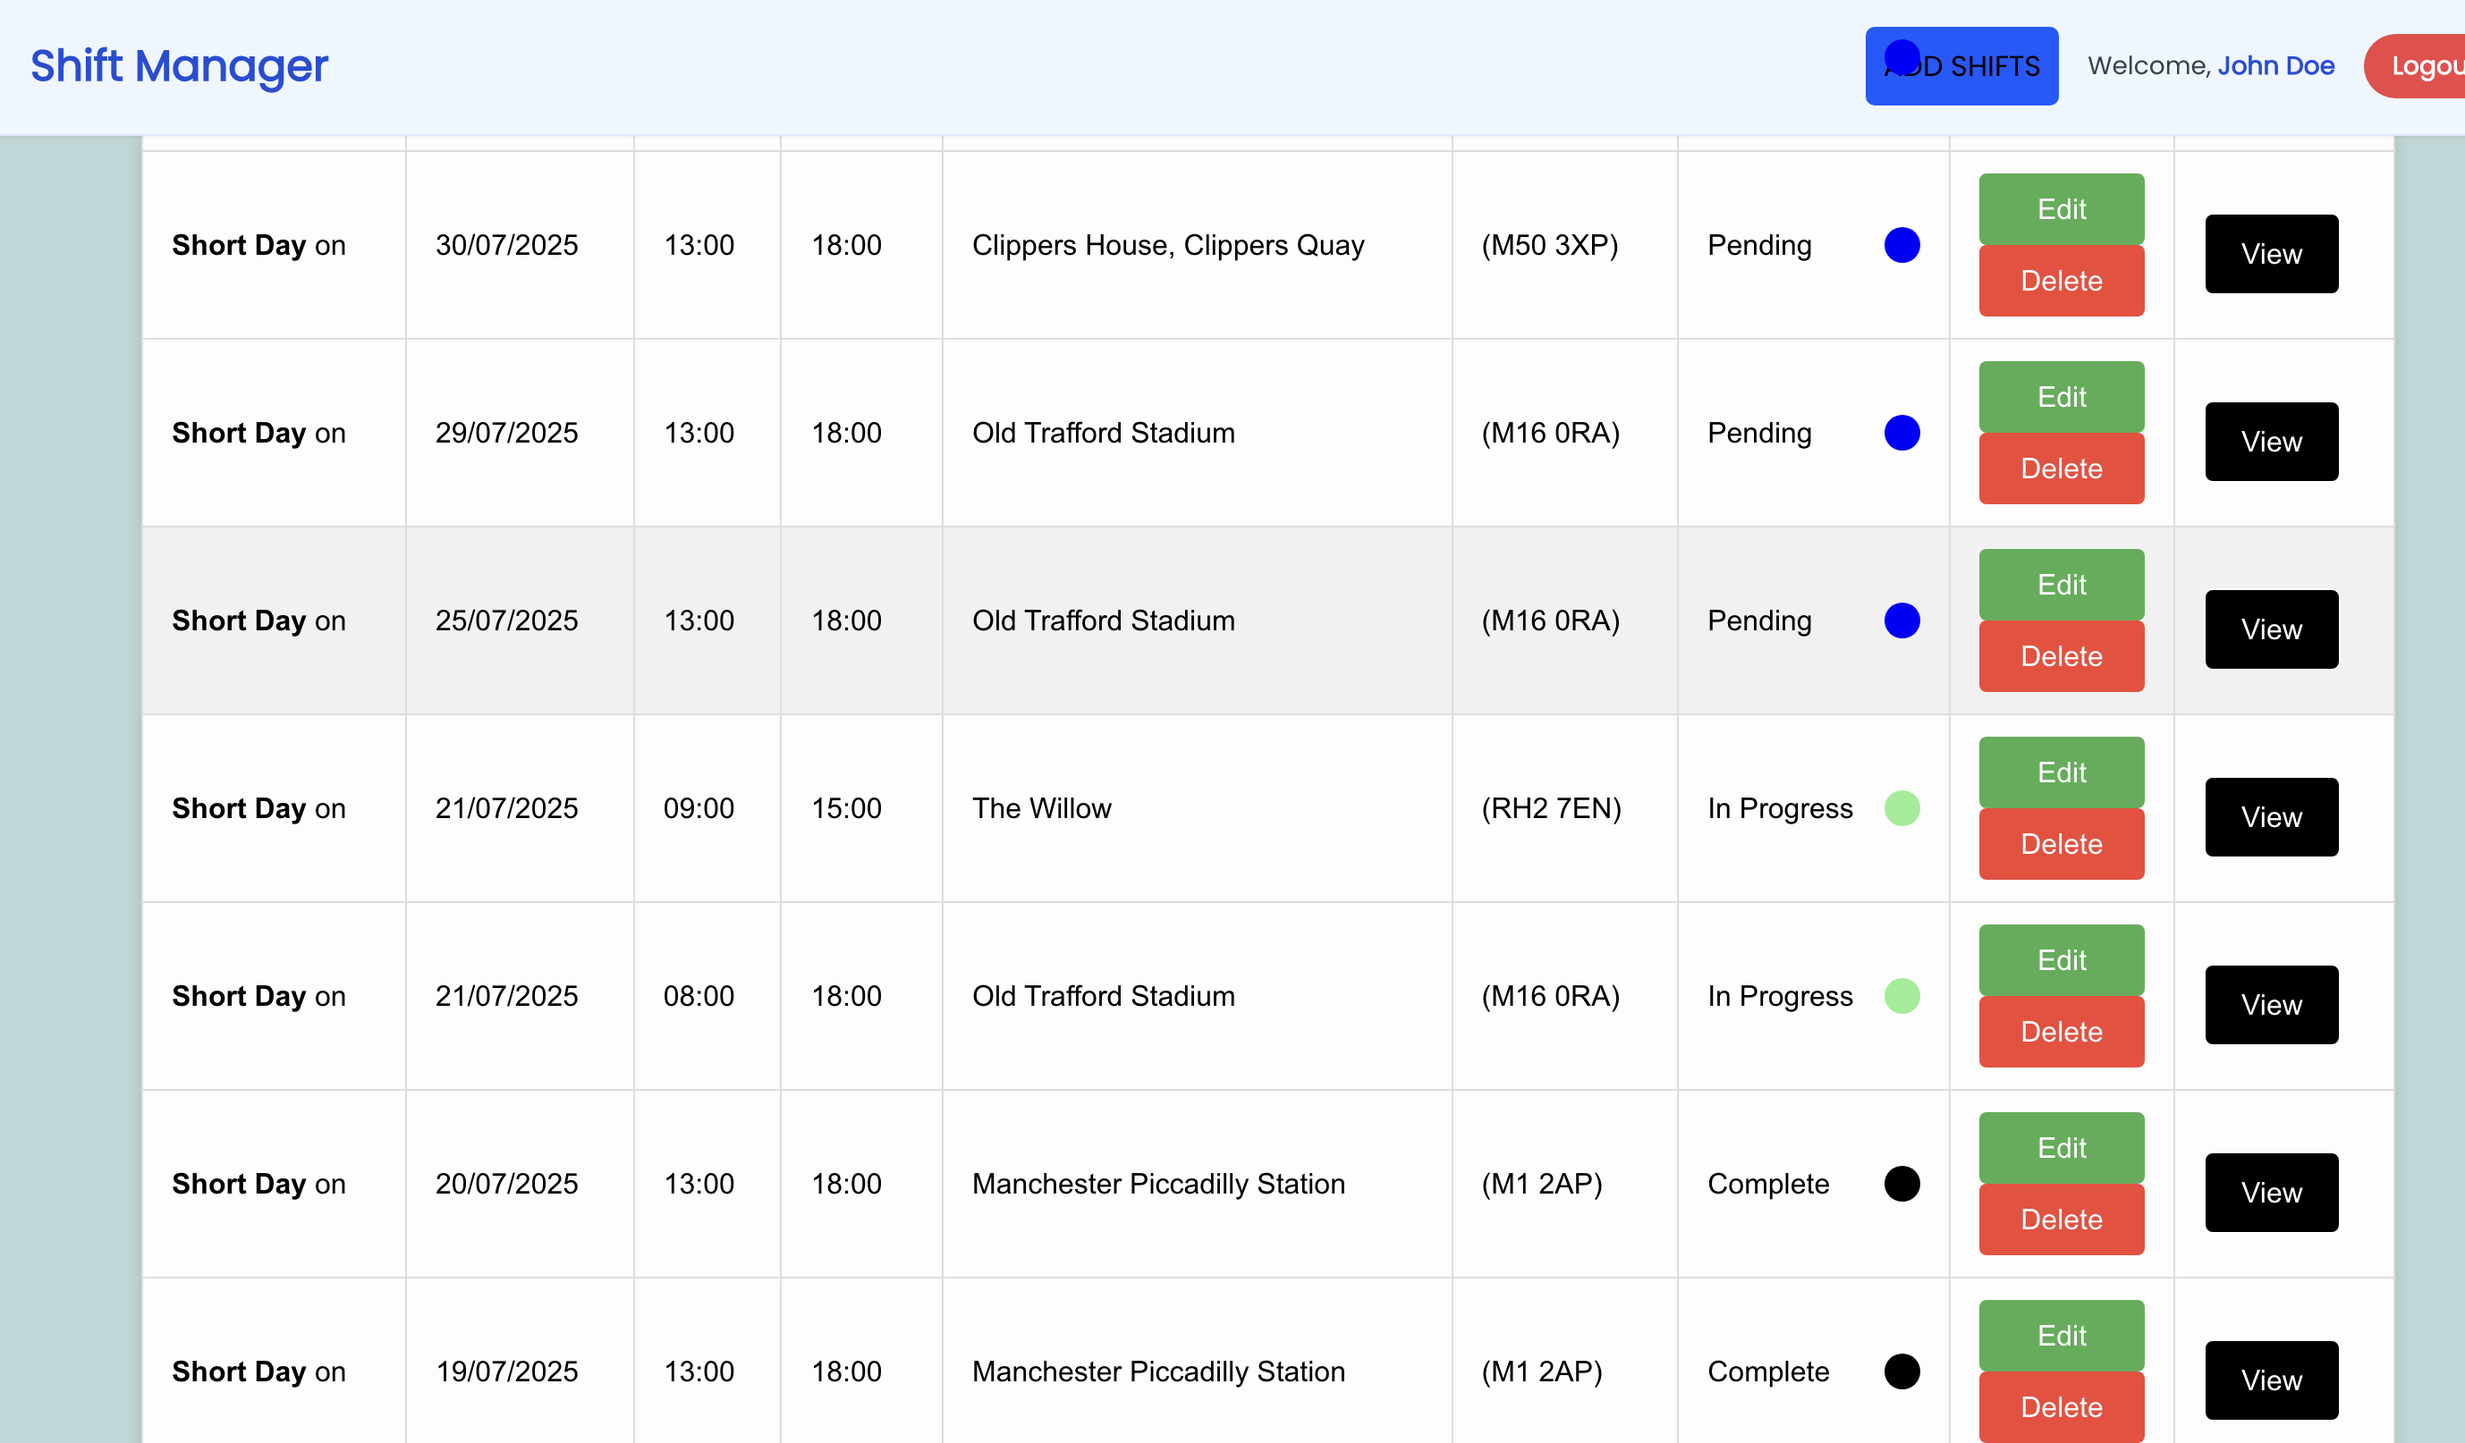
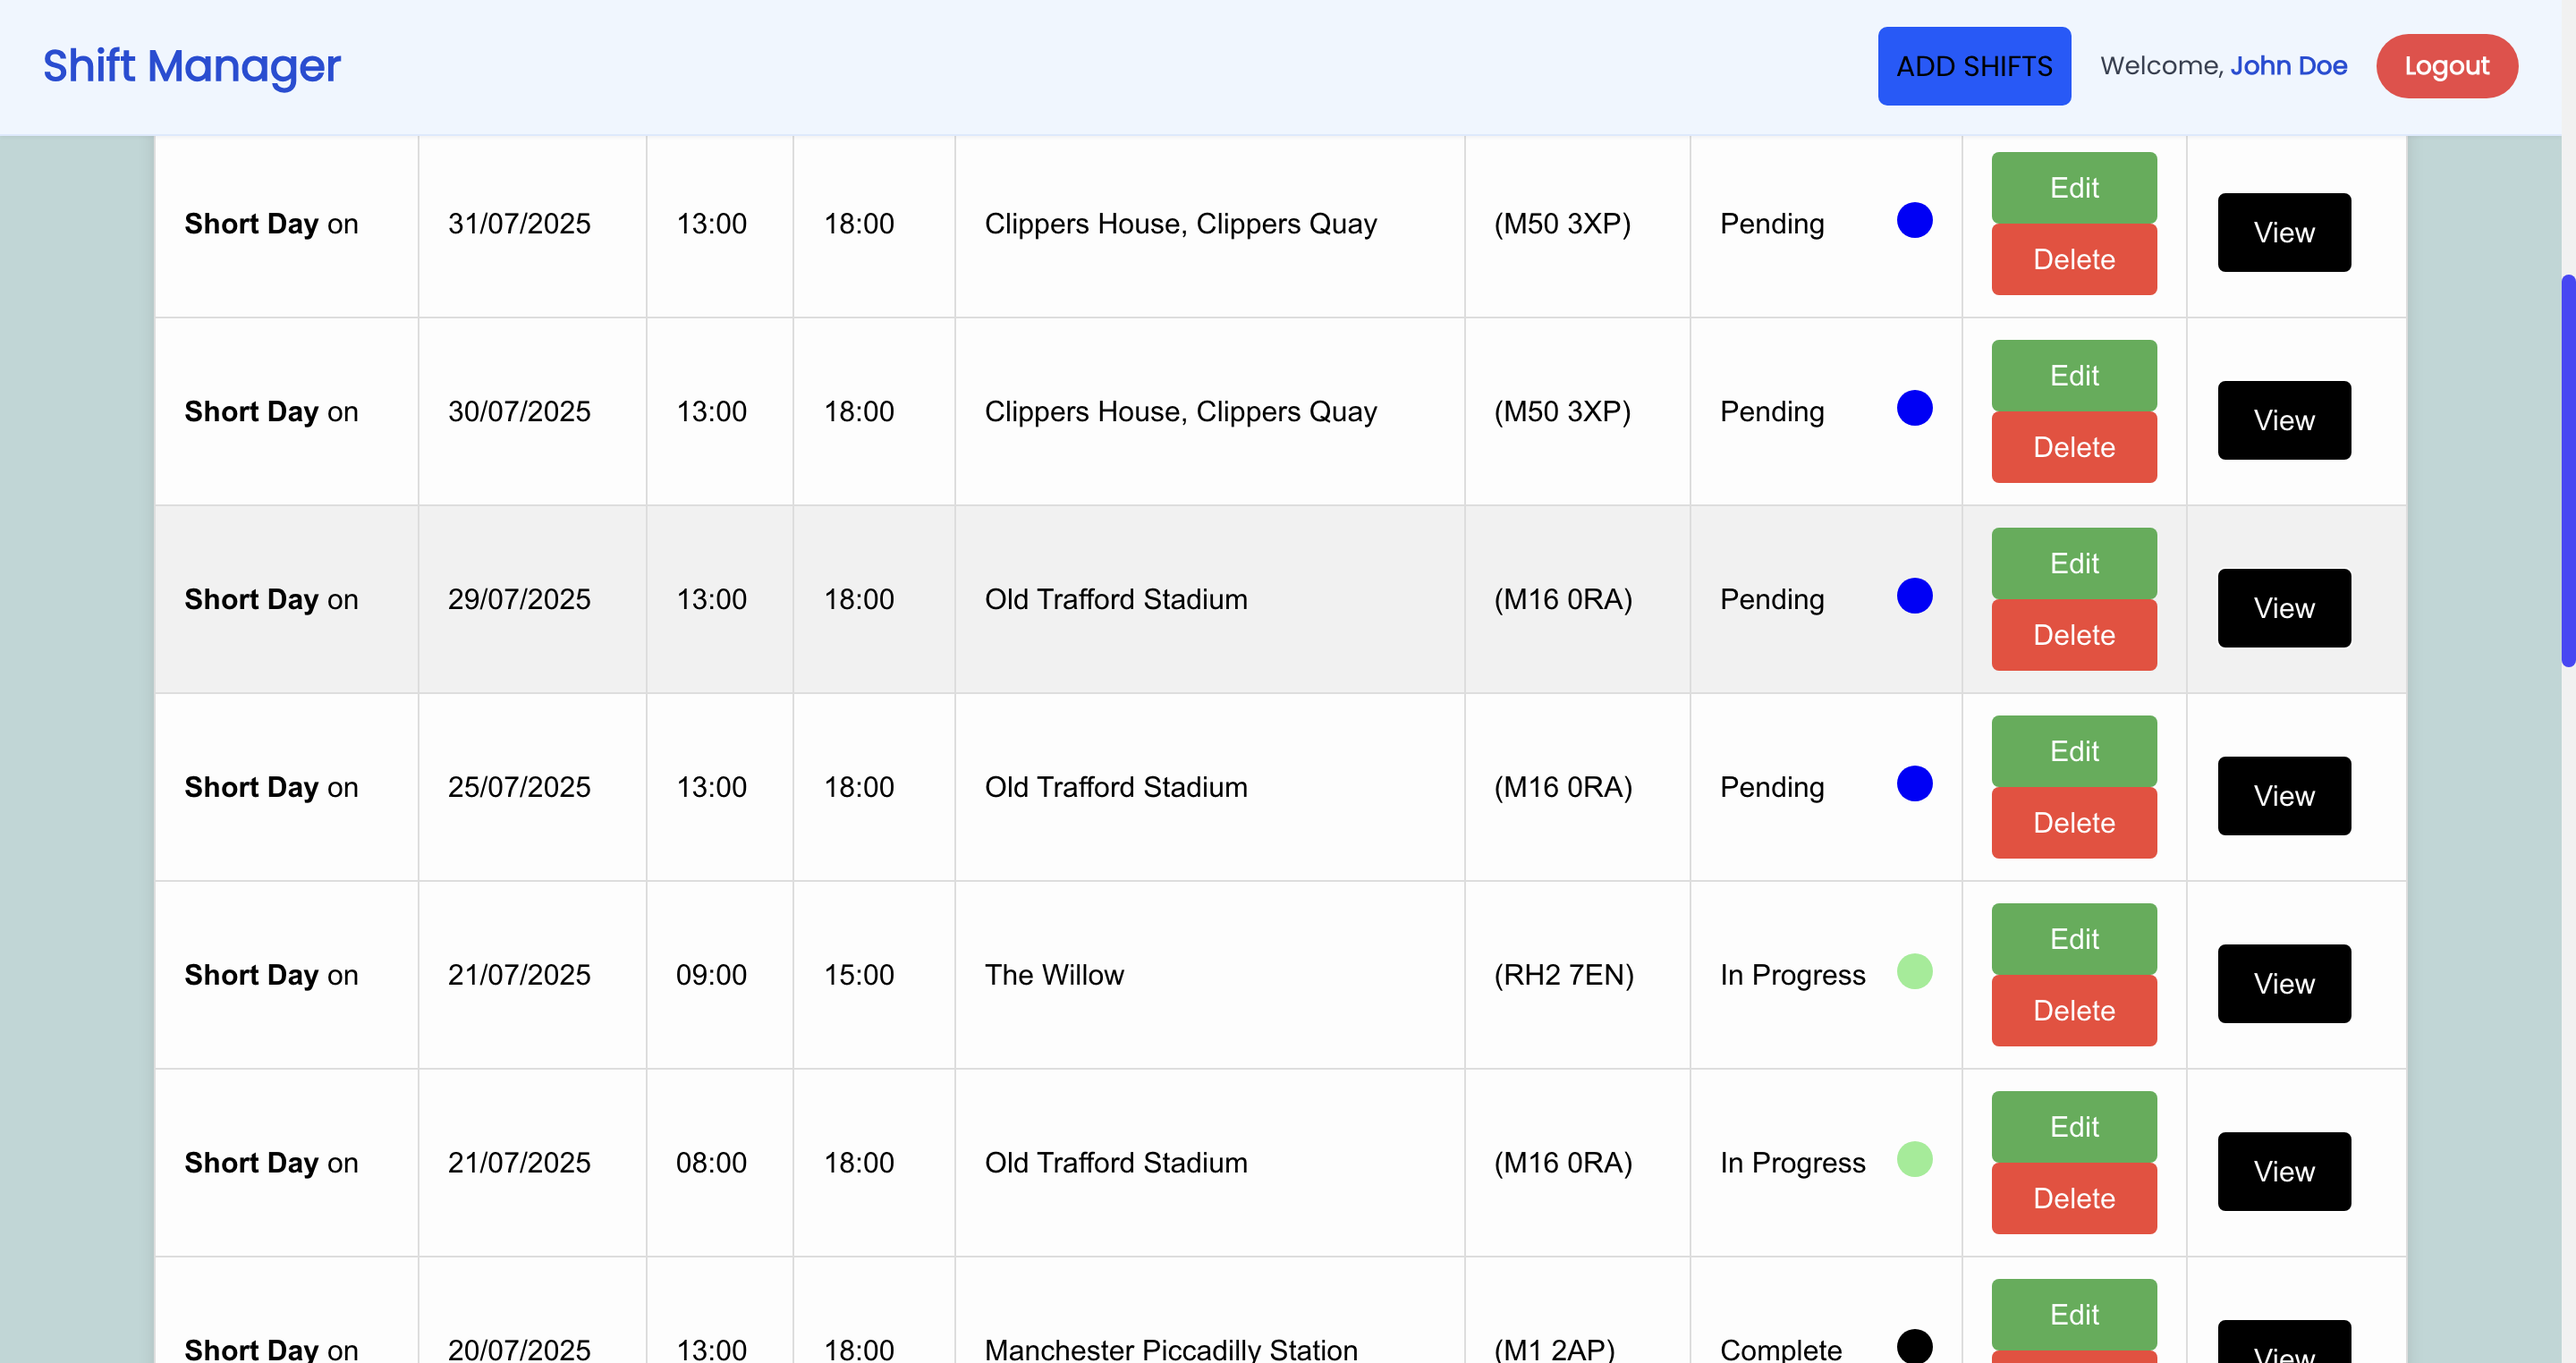
updates

diff --git a/src/components/Shifts/EditShifts/Shifts.jsx b/src/components/Shifts/EditShifts/Shifts.jsx
@@ -134,7 +134,7 @@ export default function Shifts() {
                   <td>{shift.location?.name}{" "}</td>
                   <td>{shift.location?.postCode ? `(${shift.location.postCode})` : ""}</td>
                   <td>{getShiftStatus(shift.startTime, shift.finishTime, shift.date).status}
-                    <div style={{position: 'relative', top: '2px', padding: "10px",borderRadius: '10px', backgroundColor: getShiftStatus(shift.startTime, shift.finishTime, shift.date).colour, width: '10px', height: '10px', float: 'right'}}></div>
+                    <div style={{padding: "10px",borderRadius: '10px', backgroundColor: getShiftStatus(shift.startTime, shift.finishTime, shift.date).colour, width: '10px', height: '10px', float: 'right'}}></div>
                   </td>
                   {/* STATUS WLL BE EITHER pending inprogress complete */}
                   <td>

diff --git a/README.md b/README.md
@@ -9,8 +9,12 @@ git clone --branch feature/shift-crud --single-branch https://github.com/HamzLDN
 cd orta-dev-test-fe
 ```
 
-## Visuals
+# Visuals
+## Dashboard
 <img src="readmeImages/Dashboard.png" width="600" />
+
+## Form
+<img src="readmeImages/Dashboard.png" width="400" />
 
 
 ## Available Scripts
